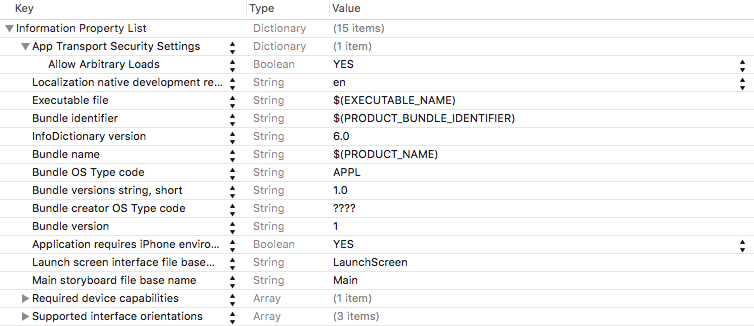
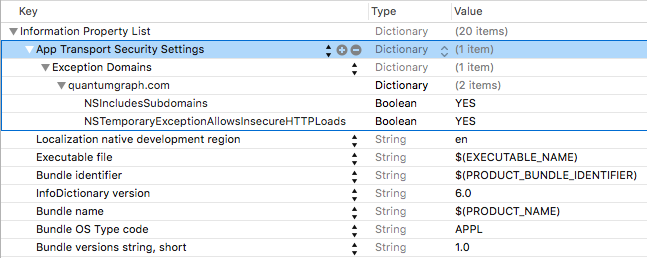
one line change in android and improvement in ios documentation

Changed region(s): [[0.0, 0.0, 1.0, 1.0]]

diff --git a/integrating-ios-sdk.rst b/integrating-ios-sdk.rst
@@ -2,7 +2,7 @@ iOS SDK integration
 ===================
 For using quantumgraph iOS-SDK, do the following steps.
 
-#. Integrate our quantumgraph iOS-SDK
+#. Install our quantumgraph iOS-SDK
 
 #. Generate a PEM file
 
@@ -25,17 +25,33 @@ The easiest way to integrate quantumgraph iOS SDK into your iOS project is to us
 
      pod 'quantumgraph'
 
+   Alternatively, in the terminal, in the xcode project directory, type::
+
+     pod init
+
+   Your pod file is created and now you can add ``pod 'quantumgraph'`` to the specific targets you want.
+
 #. Run ``pod install`` in Xcode project directory. Cocoapods will downloads and install the quantumgraph iOS-SDK library and create a new Xcode workspace. From now on you should use this workspace.
 
 Manual installation
 ###################
 
 Download the SDK from
-   http://app.qgraph.io/static/sdk/ios/QGSdk-1.8.1.zip
+   http://app.qgraph.io/static/sdk/ios/QGSdk-1.9.0.zip
 
 #. In your Xcode project, Go to File, add new Group to your project and name it as QGSdk.
 
 #. Add libQSdk.a and QGSdk.h in QGSdk group 
+
+#. Go to Project -> Target -> Build Phases. In the section "Link Binary with Libraries", add following frameworks:
+AdSupport.framework
+SystemConfiguration.framework
+CoreTelephony.framework
+CoreLocation.framework
+
+We track location only if you initialize location service. If you don't add location usage key in info.plist file, we don't track the location of the user.
+
+However, you do not need to add these frameworks if you use cocoapods.
 
 Installation steps for Swift apps
 #################################
@@ -117,15 +133,33 @@ Making the Provisioning Profile
 
 Using iOS Sdk
 -------------
-Changes in info.plist file
-##########################
+Changes in info.plist file (iOS SDK 9.0 and above)
+##################################################
 
 To allow the app to send data, you need to add following property in the info.plist file.
 
-In ‘Information Property List’ click on ‘+’ to add ‘App Transport Security Settings’ which is a dictionary. Now click on this dictionary to add one item. Add Boolean ‘Allow Arbitrary Loads’ and set its value to YES.
+In ‘Information Property List’ click on ‘+’ to add ‘App Transport Security Settings’ which is a dictionary. Now click on this dictionary to add one item. Add dictionary ‘Exception Domains’ which is a dictionary. In exception domains add ‘quantumgraph.com’ which is again a dictionary. In this domain add ’NSIncludeSubdomains’, ’NSTemporaryExceptionAllowsInsecureHTTPLoads’ and set these values to ‘YES’.
 
    .. figure:: transport-security-settings.png
       :align: center
+
+Alternatively, you can simply copy paste this to your ``info.plist`` xml file::
+
+   <key>NSAppTransportSecurity</key>
+   <dict>
+      <key>NSExceptionDomains</key>
+      <dict>
+         <key>quantumgraph.com</key>
+         <dict>
+            <key>NSIncludesSubdomains</key>
+            <true/>
+            <key>NSTemporaryExceptionAllowsInsecureHTTPLoads</key>
+            <true/>
+         </dict>
+      </dict>
+   </dict>
+
+
 
 You may get following exception if above is not configured::
 
@@ -232,7 +266,7 @@ Registering Your Actionable Notification Types
 ##############################################
 Actionable notifications let you add custom action buttons to the standard iOS interfaces for local and push notifications. Actionable notifications give the user a quick and easy way to perform relevant tasks in response to a notification. Prior to iOS 8, user notifications had only one default action. In iOS 8 and later, the lock screen, notification banners, and notification entries in Notification Center can display one or two custom actions. Modal alerts can display up to four. When the user selects a custom action, iOS notifies your app so that you can perform the task associated with that action.
 
-For defining a notification action and its category, and to handle actionable notification, please refer the description in the apple docs.
+For defining a notification action and its category, and to handle actionable notification, please refer the description in the apple docs. (`Click here <https://developer.apple.com/library/ios/documentation/NetworkingInternet/Conceptual/RemoteNotificationsPG/Chapters/IPhoneOSClientImp.html>`_)
 
 Action Category can be set in the dashboard while sending notification. While configuring to send notification through campaigns, use the categories defined in the app.
 
@@ -240,9 +274,13 @@ Handling Push Notification
 ##########################
 
 Notifications are delivered while the app is in foreground, background or not running state. We can handle them in the following delegate methods. 
-If the remote notification is tapped, the system launches the app and the app calls its delegate’s application:didFinishLaunchingWithOptions: method, passing in the notification payload (for remote notifications). Although application:didFinishLaunchingWithOptions: isn’t the best place to handle the notification, getting the payload at this point gives you the opportunity to start the update process before your handler method is called.
+If the remote notification is tapped, the system launches the app and the app calls its delegate’s 
+`application:didFinishLaunchingWithOptions: <https://developer.apple.com/library/ios/documentation/UIKit/Reference/UIApplicationDelegate_Protocol/index.html#//apple_ref/occ/intfm/UIApplicationDelegate/application:didFinishLaunchingWithOptions:>`_
+method, passing in the notification payload (for remote notifications). Although application:didFinishLaunchingWithOptions: isn’t the best place to handle the notification, getting the payload at this point gives you the opportunity to start the update process before your handler method is called.
 
-For remote notifications, the system also calls the ``application:didReceiveRemoteNotification:fetchCompletionHandler:`` method of the app delegate.
+For remote notifications, the system also calls the 
+`application:didReceiveRemoteNotification:fetchCompletionHandler: <https://developer.apple.com/library/ios/documentation/UIKit/Reference/UIApplicationDelegate_Protocol/index.html#//apple_ref/occ/intfm/UIApplicationDelegate/application:didReceiveRemoteNotification:fetchCompletionHandler:>`_ 
+method of the app delegate.
 
 You can handle the notification and its payload as described::
 
@@ -257,7 +295,14 @@ You can handle the notification and its payload as described::
       return YES;
    }
 
-The notification is delivered when the app is running in the foreground. The app calls the ``application:didReceiveRemoteNotification:fetchCompletionHandler:`` method of the app delegate. (If ``application:didReceiveRemoteNotification:fetchCompletionHandler:`` isn't implemented, the system calls ``application:didReceiveRemoteNotification:``.) However, it is advised to use application:didReceiveRemoteNotification:fetchCompletionHandler: method to handle push notification. Please add ``[[QGSdk getSharedInstance] didReceiveRemoteNotification:userInfo];`` to your implementation::
+The notification is delivered when the app is running in the foreground. 
+The app calls the 
+`application:didReceiveRemoteNotification:fetchCompletionHandler: <https://developer.apple.com/library/ios/documentation/UIKit/Reference/UIApplicationDelegate_Protocol/index.html#//apple_ref/occ/intfm/UIApplicationDelegate/application:didReceiveRemoteNotification:fetchCompletionHandler:>`_ 
+method of the app delegate. 
+(If ``application:didReceiveRemoteNotification:fetchCompletionHandler:`` isn't implemented, the system calls ``application:didReceiveRemoteNotification:``.) 
+However, it is advised to use 
+`application:didReceiveRemoteNotification:fetchCompletionHandler: <https://developer.apple.com/library/ios/documentation/UIKit/Reference/UIApplicationDelegate_Protocol/index.html#//apple_ref/occ/intfm/UIApplicationDelegate/application:didReceiveRemoteNotification:fetchCompletionHandler:>`_ 
+method to handle push notification. Please add ``[[QGSdk getSharedInstance] didReceiveRemoteNotification:userInfo];`` to your implementation::
 
   - (void)application:(UIApplication *)application
      didReceiveRemoteNotification:(NSDictionary *)userInfo
@@ -270,7 +315,9 @@ The notification is delivered when the app is running in the foreground. The app
 
 You can also handle background operation using the above method once remote notification is delivered. For this make sure, wake app in background is selected while creating a campaign to send the notification.
 
-If you have implemented ``application:didReceiveRemoteNotification:`` add method ``[[QGSdk getSharedInstance] didReceiveRemoteNotification:userInfo];`` inside it. Your implementation should look like::
+If you have implemented 
+`application:didReceiveRemoteNotification: <https://developer.apple.com/library/ios/documentation/UIKit/Reference/UIApplicationDelegate_Protocol/index.html#//apple_ref/occ/intfm/UIApplicationDelegate/application:didReceiveRemoteNotification:>`_ 
+add method ``[[QGSdk getSharedInstance] didReceiveRemoteNotification:userInfo];`` inside it. Your implementation should look like::
 
    - (void)application:(UIApplication *)application didReceiveRemoteNotification:(NSDictionary *)userInfo {
       [[QGSdk getSharedInstance] didReceiveRemoteNotification:userInfo];

diff --git a/downloads.rst b/downloads.rst
@@ -5,6 +5,6 @@ If you use Android Studio, AAR file is available at http://jcenter.bintray.com/c
 
 If you use Eclipse, library project is available at http://app.qgraph.io/static/sdk/android/QG-1.1.10.zip.
 
-Download QGraph SDK for iOS from here: http://app.qgraph.io/static/sdk/ios/QGSdk-1.8.1.zip
+Download QGraph SDK for iOS from here: http://app.qgraph.io/static/sdk/ios/QGSdk-1.9.0.zip
 (But we recommend that you follow cocoapods based integration outlined in iOS integration instructions)
 

diff --git a/integrating-android-sdk.rst b/integrating-android-sdk.rst
@@ -145,7 +145,7 @@ Hence, we need to make sure that the registration ids generated for QGraph are v
 To make sure parse notifications work seamlessly alongside QGraph, you need to do two things.
 
 
-Firstly, change the arguments on ``onStart()`` function slightly.
+Firstly, change the arguments on ``onCreate()`` function slightly.
 
 In case you selected the option "I will use QGraph's GCM Key" in step 1 of integration, you need to call ``getInstance()`` as follows::
 
